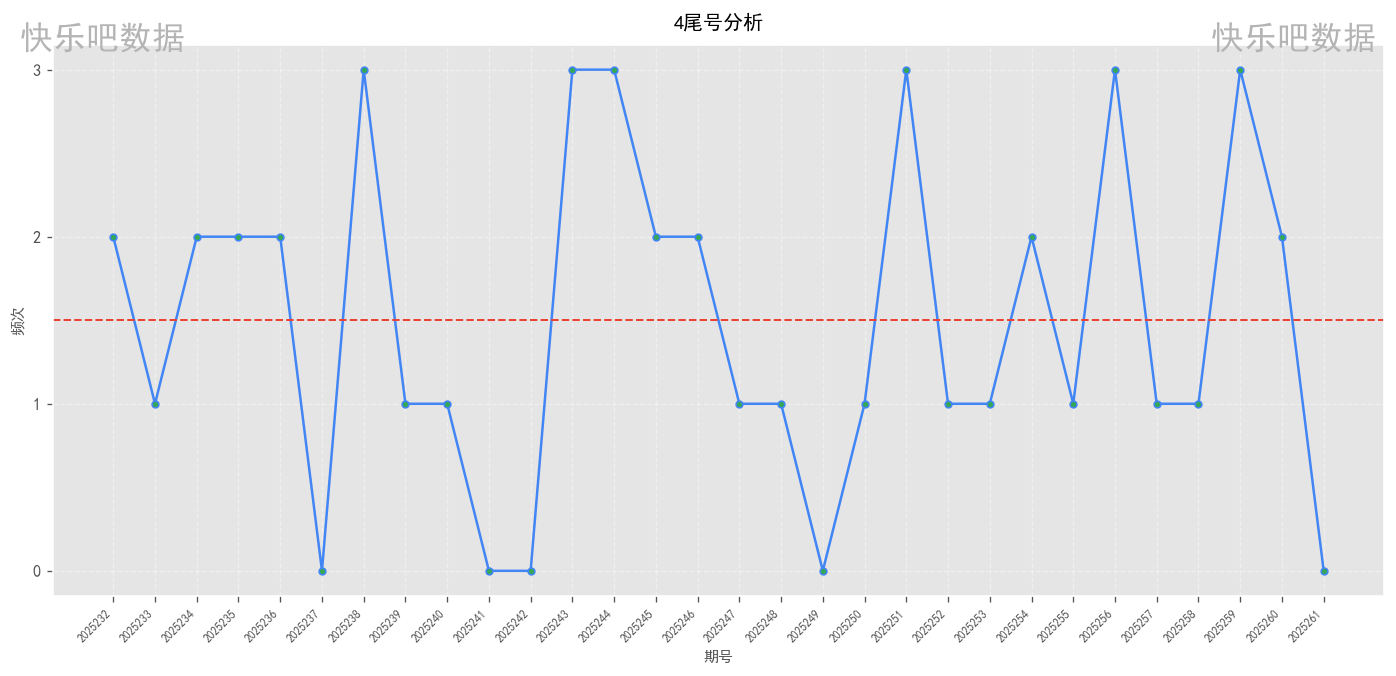
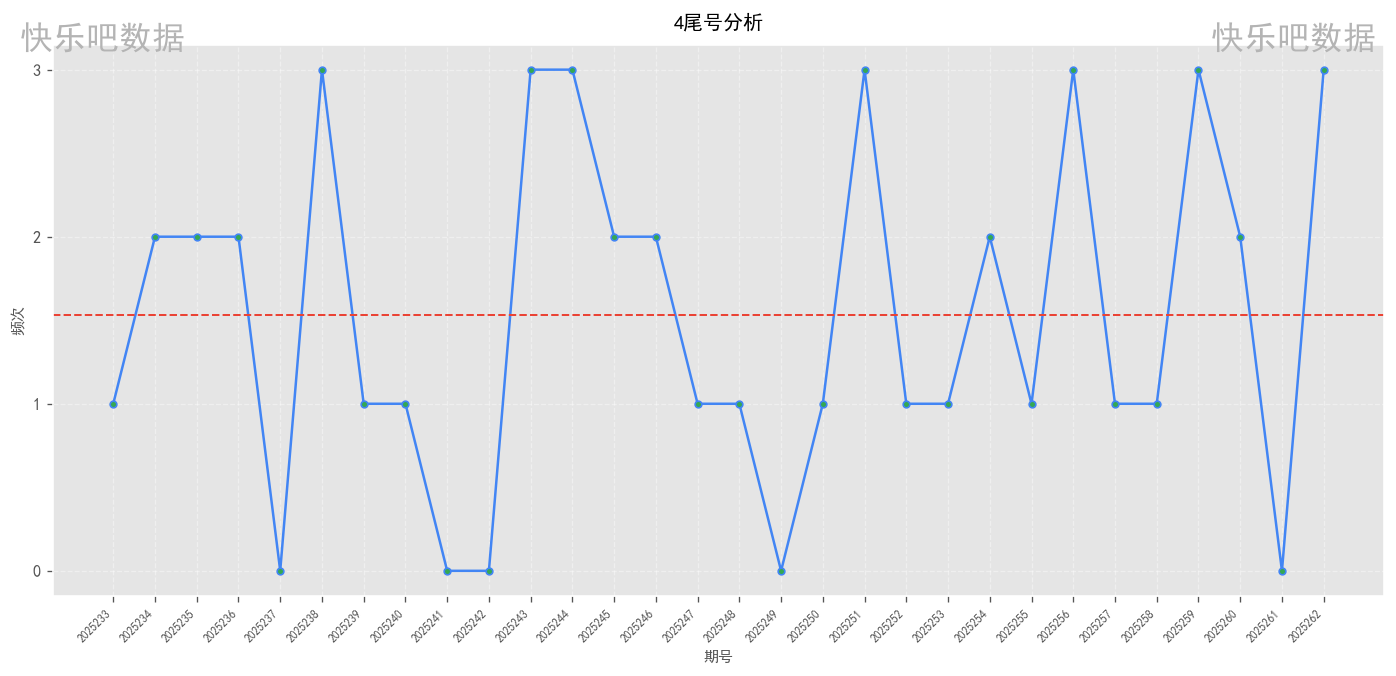
自动提交报告 20250929_2207

diff --git a/快乐8尾号分析项目/数据报告/20250929/report.html b/快乐8尾号分析项目/数据报告/20250929/report.html
@@ -440,7 +440,7 @@
                     <div class="label">尾号区间</div>
                 </div>
                 <div class="overview-card">
-                    <div class="value">2025261</div>
+                    <div class="value">2025262</div>
                     <div class="label">最新期号</div>
                 </div>
                 <div class="overview-card">
@@ -464,11 +464,11 @@
             <div class="stats-summary">
                 <div class="stat-item">
                     <span class="stat-label">历史平均</span>
-                    <span class="stat-value">2.07</span>
+                    <span class="stat-value">2.13</span>
                 </div>
                 <div class="stat-item">
                     <span class="stat-label">近期平均</span>
-                    <span class="stat-value">2.80</span>
+                    <span class="stat-value">3.00</span>
                 </div>
                 <div class="stat-item">
                     <span class="stat-label">最高频次</span>
@@ -486,11 +486,11 @@
             <div class="stats-summary">
                 <div class="stat-item">
                     <span class="stat-label">历史平均</span>
-                    <span class="stat-value">2.23</span>
+                    <span class="stat-value">2.17</span>
                 </div>
                 <div class="stat-item">
                     <span class="stat-label">近期平均</span>
-                    <span class="stat-value">3.00</span>
+                    <span class="stat-value">2.60</span>
                 </div>
                 <div class="stat-item">
                     <span class="stat-label">最高频次</span>
@@ -508,11 +508,11 @@
             <div class="stats-summary">
                 <div class="stat-item">
                     <span class="stat-label">历史平均</span>
-                    <span class="stat-value">1.90</span>
+                    <span class="stat-value">1.83</span>
                 </div>
                 <div class="stat-item">
                     <span class="stat-label">近期平均</span>
-                    <span class="stat-value">1.80</span>
+                    <span class="stat-value">1.60</span>
                 </div>
                 <div class="stat-item">
                     <span class="stat-label">最高频次</span>
@@ -530,11 +530,11 @@
             <div class="stats-summary">
                 <div class="stat-item">
                     <span class="stat-label">历史平均</span>
-                    <span class="stat-value">2.33</span>
+                    <span class="stat-value">2.30</span>
                 </div>
                 <div class="stat-item">
                     <span class="stat-label">近期平均</span>
-                    <span class="stat-value">1.80</span>
+                    <span class="stat-value">1.60</span>
                 </div>
                 <div class="stat-item">
                     <span class="stat-label">最高频次</span>
@@ -552,11 +552,11 @@
             <div class="stats-summary">
                 <div class="stat-item">
                     <span class="stat-label">历史平均</span>
-                    <span class="stat-value">1.50</span>
+                    <span class="stat-value">1.53</span>
                 </div>
                 <div class="stat-item">
                     <span class="stat-label">近期平均</span>
-                    <span class="stat-value">1.40</span>
+                    <span class="stat-value">1.80</span>
                 </div>
                 <div class="stat-item">
                     <span class="stat-label">最高频次</span>
@@ -574,11 +574,11 @@
             <div class="stats-summary">
                 <div class="stat-item">
                     <span class="stat-label">历史平均</span>
-                    <span class="stat-value">2.33</span>
+                    <span class="stat-value">2.30</span>
                 </div>
                 <div class="stat-item">
                     <span class="stat-label">近期平均</span>
-                    <span class="stat-value">2.20</span>
+                    <span class="stat-value">2.00</span>
                 </div>
                 <div class="stat-item">
                     <span class="stat-label">最高频次</span>
@@ -596,11 +596,11 @@
             <div class="stats-summary">
                 <div class="stat-item">
                     <span class="stat-label">历史平均</span>
-                    <span class="stat-value">2.27</span>
+                    <span class="stat-value">2.23</span>
                 </div>
                 <div class="stat-item">
                     <span class="stat-label">近期平均</span>
-                    <span class="stat-value">2.20</span>
+                    <span class="stat-value">2.00</span>
                 </div>
                 <div class="stat-item">
                     <span class="stat-label">最高频次</span>
@@ -618,11 +618,11 @@
             <div class="stats-summary">
                 <div class="stat-item">
                     <span class="stat-label">历史平均</span>
-                    <span class="stat-value">1.87</span>
+                    <span class="stat-value">1.93</span>
                 </div>
                 <div class="stat-item">
                     <span class="stat-label">近期平均</span>
-                    <span class="stat-value">1.00</span>
+                    <span class="stat-value">1.60</span>
                 </div>
                 <div class="stat-item">
                     <span class="stat-label">最高频次</span>
@@ -640,7 +640,7 @@
             <div class="stats-summary">
                 <div class="stat-item">
                     <span class="stat-label">历史平均</span>
-                    <span class="stat-value">1.80</span>
+                    <span class="stat-value">1.83</span>
                 </div>
                 <div class="stat-item">
                     <span class="stat-label">近期平均</span>
@@ -662,7 +662,7 @@
             <div class="stats-summary">
                 <div class="stat-item">
                     <span class="stat-label">历史平均</span>
-                    <span class="stat-value">1.70</span>
+                    <span class="stat-value">1.73</span>
                 </div>
                 <div class="stat-item">
                     <span class="stat-label">近期平均</span>
@@ -690,7 +690,7 @@
         <div class="disclaimer">
             <div class="disclaimer-title"><i class="fas fa-exclamation-circle"></i> 法律声明</div>
             <p>本分析报告基于中国福利彩票官网公开数据制作，仅供历史数据分析与参考，严禁用于赌博或任何违法违规用途。</p>
-            <p>根据中国法律，禁止向未成年人传播彩票相关信息。数据统计周期: 2025232期-2025261期 | 生成时间: 2025-09-29 08:53</p>
+            <p>根据中国法律，禁止向未成年人传播彩票相关信息。数据统计周期: 2025233期-2025262期 | 生成时间: 2025-09-29 22:07</p>
         </div>
 
         <!-- 操作按钮 -->
